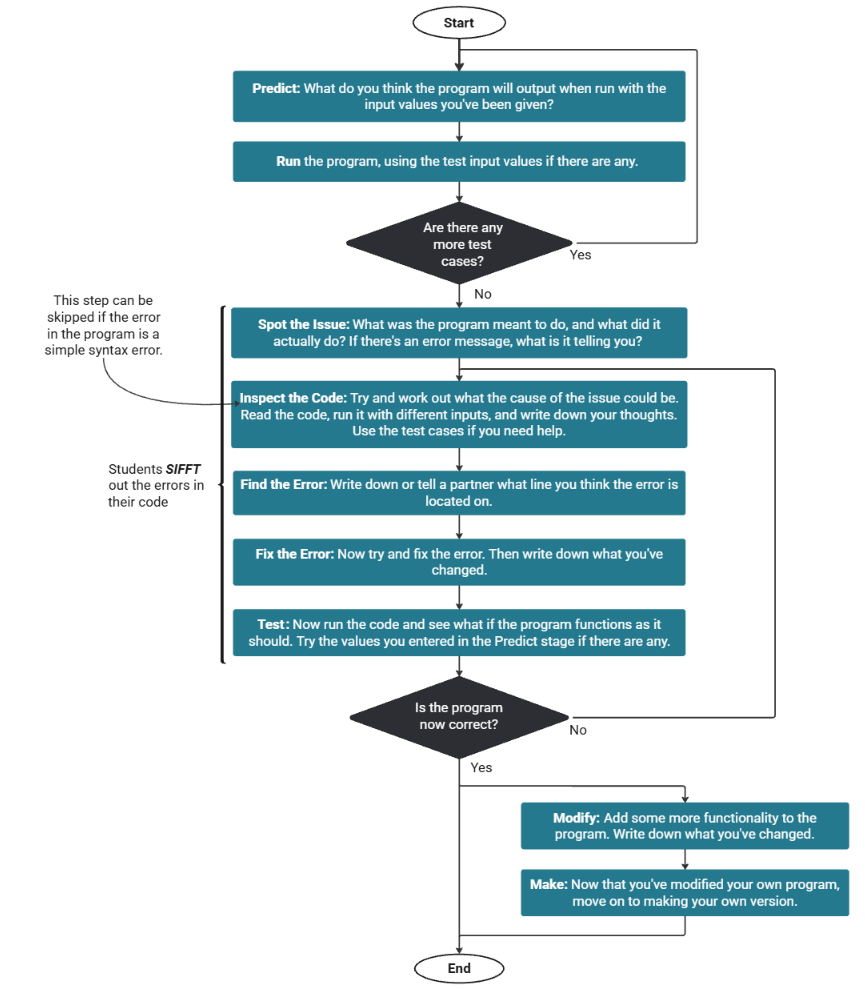
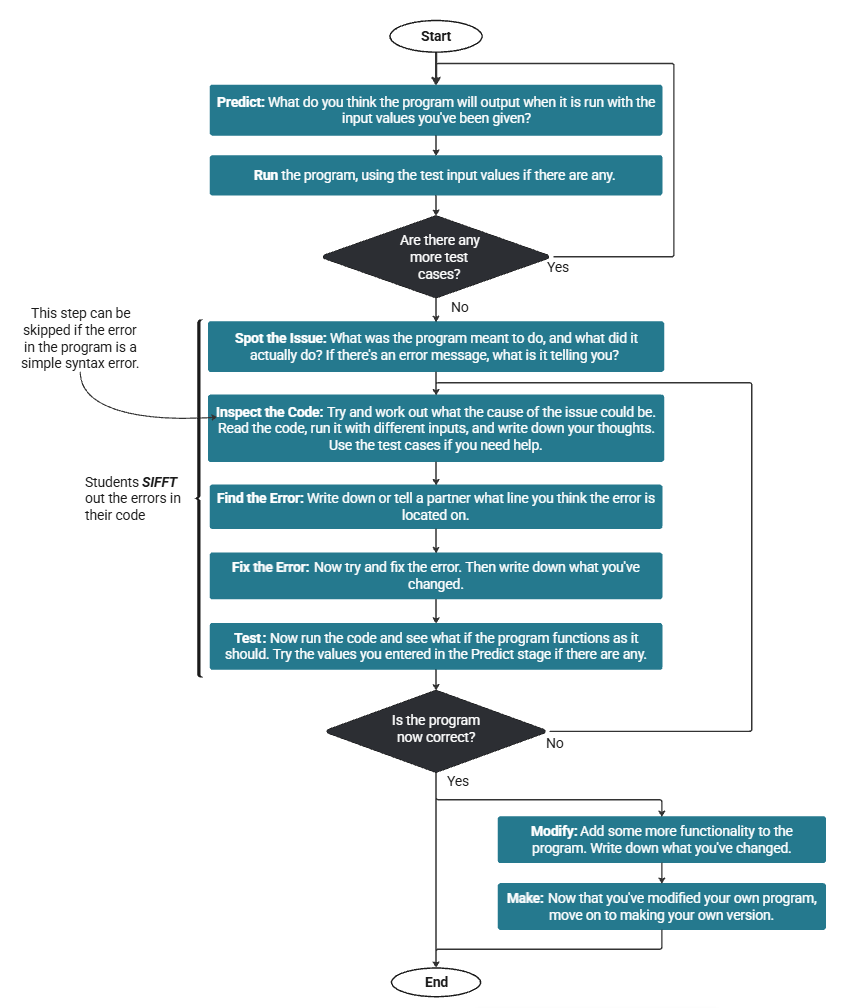
Minor edit to Predict stage prompt

Changed region(s): [[0.0926, 0.0, 0.8955, 0.819], [0.4632, 0.7887, 0.9881, 1.0], [0.0309, 0.3033, 0.1853, 0.3943]]

diff --git a/src/app/primm-debug-view/primm-debug-view.component.html b/src/app/primm-debug-view/primm-debug-view.component.html
@@ -75,10 +75,10 @@
                         @if (debuggingStage == DebuggingStageType.predict) {
                             @if (exercise.testCases![predictRunIteration].input) {
                                 @if (exercise.testCases![predictRunIteration].input!.length == 1) {
-                                    <h4>What do you think the program will output when run with the input value below?</h4>
+                                    <h4>What do you think the program will output when it is run with the input value below?</h4>
                                 }
                                 @else if (exercise.testCases![predictRunIteration].input!.length > 1) {
-                                    <h4>What do you think the program will output when run with the input values below?</h4>
+                                    <h4>What do you think the program will output when it is run with the input values below?</h4>
                                 }
                             }
                             @else {
